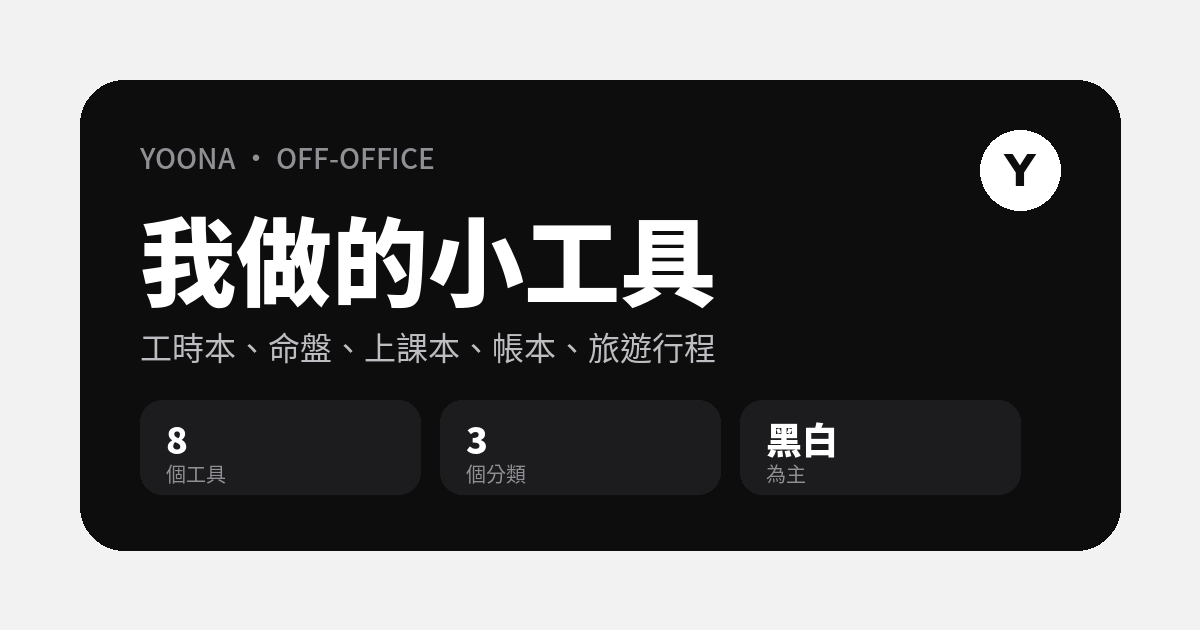
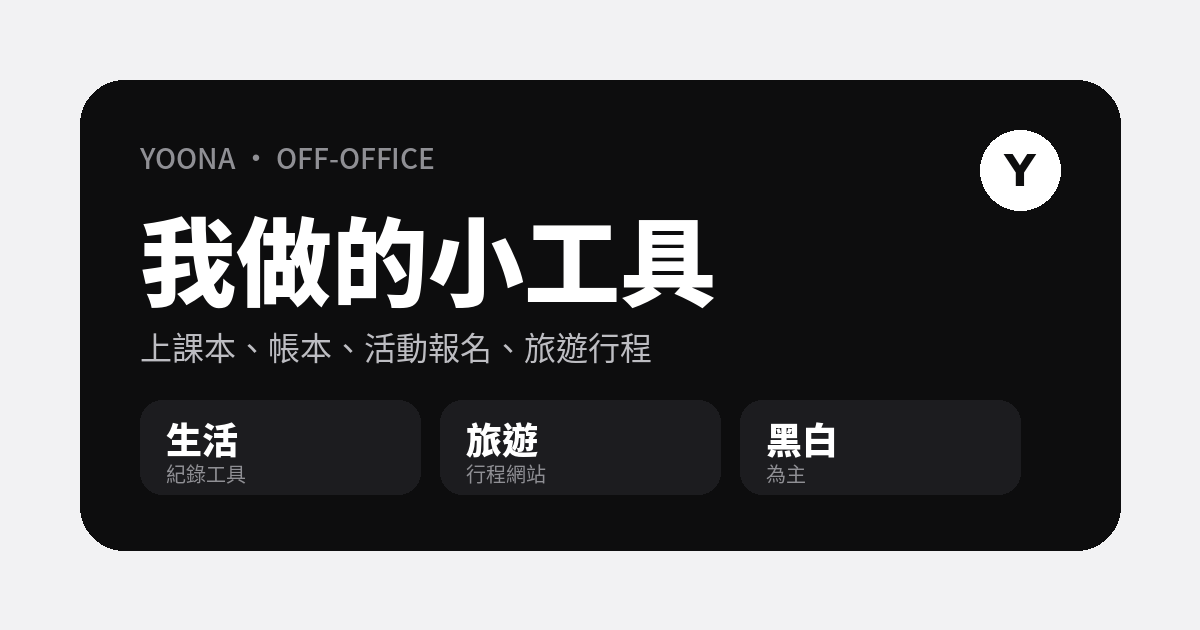
v3: travel + friend tab last + og image

diff --git a/index.html b/index.html
@@ -3,10 +3,10 @@
 <head>
 <meta charset="utf-8">
 <meta name="viewport" content="width=device-width, initial-scale=1, viewport-fit=cover">
-<meta name="description" content="Yoona 做過的所有小工具，按朋友、生活、旅遊分類，點了直接開啟。">
+<meta name="description" content="Yoona 做過的所有小工具，按生活、旅遊、朋友分類，點了直接開啟。">
 <meta property="og:type" content="website">
 <meta property="og:title" content="Yoona 的小工具">
-<meta property="og:description" content="工時本、命盤、上課本、帳本、旅遊行程，全部收在這裡。">
+<meta property="og:description" content="上課本、帳本、活動報名、旅遊行程，全部收在這裡。">
 <meta property="og:url" content="https://syuanc221.github.io/tools/">
 <meta property="og:image" content="https://syuanc221.github.io/tools/og.png">
 <meta property="og:image:width" content="1200">
@@ -112,27 +112,27 @@ h1{margin:2px 0 0;font-size:30px;font-weight:900;letter-spacing:-.01em;text-wrap
     <div class="hero-top">
       <div>
         <div class="label">目前收錄</div>
-        <div class="big" id="count">8<small>個</small></div>
+        <div class="big" id="count">6<small>個</small></div>
       </div>
-      <div class="last" id="latest">最近更新<b>ZL 工時本 v18</b>9/29</div>
+      <div class="last" id="latest">最近更新<b>加拿大・楓境遠征</b>9/30</div>
     </div>
     <div class="stats">
-      <div><b id="s-friend">2</b><span>幫朋友做的</span></div>
-      <div><b id="s-life">4</b><span>自己生活用</span></div>
+      <div><b id="s-life">4</b><span>生活紀錄</span></div>
       <div><b id="s-travel">2</b><span>旅遊網站</span></div>
+      <div><b id="s-friend">2</b><span>幫朋友做的</span></div>
           </div>
   </section>
 
   <div class="seg" role="group" aria-label="分類">
     <button type="button" id="f-all" data-f="all" aria-pressed="true">全部</button>
-    <button type="button" id="f-friend" data-f="friend" aria-pressed="false">朋友</button>
     <button type="button" id="f-life" data-f="life" aria-pressed="false">生活</button>
     <button type="button" id="f-travel" data-f="travel" aria-pressed="false">旅遊</button>
+    <button type="button" id="f-friend" data-f="friend" aria-pressed="false">朋友</button>
       </div>
 
   <div id="list"></div>
 
-  <p class="note">「公開」任何人都能開；「私人」只有登入你的 Claude 帳號才看得到。</p>
+  <p class="note">清單來自 Google Sheet，在表格加一列就會出現；「私人」是只有登入才開得了的頁面。</p>
 </div>
 
 <script>
@@ -152,11 +152,11 @@ const I = {
 const SHEET_ID = '10KImEBVuPuwQza8iDnUeb71jAURsnzzwSlowatCcM6Y';
 const SHEET_CSV = `https://docs.google.com/spreadsheets/d/${SHEET_ID}/gviz/tq?tqx=out:csv&headers=1`;
 let tools = [
-  {cat:'friend', icon:'clock', primary:true, name:'ZL 工時本', ver:'v18', desc:'地毯工時打卡、匯入備忘錄、月結表 PDF／Excel', pub:true, date:'9/29',
+  {cat:'friend', icon:'clock', name:'ZL 工時本', ver:'v18', desc:'地毯工時打卡、匯入備忘錄、月結表 PDF／Excel', pub:false, date:'9/29',
    url:'https://syuanc221.github.io/timesheet/', extra:[{t:'Demo 版', u:'https://syuanc221.github.io/timesheet/demo/'}]},
-  {cat:'friend', icon:'star', name:'子良命盤', desc:'本命盤、宮位相位、小限與法達自動更新', pub:true, date:'9/9',
+  {cat:'friend', icon:'star', name:'子良命盤', desc:'本命盤、宮位相位、小限與法達自動更新', pub:false, date:'9/9',
    url:'https://syuanc221.github.io/ziliang/'},
-  {cat:'life', icon:'ticket', name:'萬聖節變裝夜', desc:'10/31 ONCOR 信義 · 一鍵報名與即時人數', pub:true, date:'9/22',
+  {cat:'life', icon:'ticket', name:'萬聖節變裝夜', desc:'10/31 ONCOR 信義 · 一鍵報名與即時人數', pub:true, primary:true, date:'9/22',
    url:'https://syuanc221.github.io/halloween/'},
   {cat:'life', icon:'book', name:'英語家教上課本', desc:'每堂重點、複習、學費紀錄', pub:true, date:'9/29',
    url:'https://syuanc221.github.io/english-lessons/'},
@@ -169,12 +169,13 @@ let tools = [
   {cat:'travel', icon:'maple', name:'加拿大・楓境遠征', desc:'溫哥華、多倫多與尼加拉瀑布婚禮之旅', pub:true, date:'9/30',
    url:'https://canada-trip-site-latest-with-videos-zeta.vercel.app/'}
 ];
-const CAT = {friend:'朋友', life:'生活', travel:'旅遊'};
+const CAT = {life:'生活', travel:'旅遊', friend:'朋友'};
+const PUBLIC_CATS = ['life','travel'];   // 「全部」只列這些；朋友的東西只在自己的分頁
 const arrow = '<svg viewBox="0 0 24 24"><path d="M7 17 17 7M9 7h8v8"/></svg>';
 const esc = s => s.replace(/[&<>"]/g, c => ({'&':'&amp;','<':'&lt;','>':'&gt;','"':'&quot;'}[c]));
 
 function row(t){
-  const tags = `<span class="tag ${t.pub?'pub':''}">${t.pub?'公開':'私人'}</span>${t.ver?`<span class="tag">${t.ver}</span>`:''}<span class="tag">更新 ${t.date}</span>`;
+  const tags = `${t.pub?'':'<span class="tag pub">私人</span>'}${t.ver?`<span class="tag">${t.ver}</span>`:''}<span class="tag">更新 ${t.date}</span>`;
   let h = `<a class="row${t.primary?' primary':''}" href="${esc(t.url)}" target="_blank" rel="noopener">
     <div class="ic">${I[t.icon]}</div>
     <div class="body"><div class="name">${esc(t.name)}</div><div class="desc">${esc(t.desc)}</div><div class="meta">${tags}</div></div>
@@ -184,9 +185,10 @@ function row(t){
 }
 function render(f){
   const list = document.getElementById('list');
-  const cats = f==='all' ? ['friend','life','travel'] : [f];
+  const cats = f==='all' ? PUBLIC_CATS : [f];
   list.innerHTML = cats.map(c=>{
     const items = tools.filter(t=>t.cat===c);
+    if(!items.length) return '';
     return `<section class="group"><h2>${CAT[c]} · ${items.length}</h2>${items.map(row).join('')}</section>`;
   }).join('<div style="height:14px"></div>');
 }
@@ -221,15 +223,16 @@ function fromSheet(rows){
   return out;
 }
 function refreshStats(){
-  document.getElementById('count').firstChild.nodeValue = tools.length;
-  ['friend','life','travel'].forEach(c=>document.getElementById('s-'+c).textContent = tools.filter(t=>t.cat===c).length);
-  const latest=[...tools].sort((a,b)=>b.date.localeCompare(a.date,undefined,{numeric:true}))[0];
+  const shown=tools.filter(t=>PUBLIC_CATS.includes(t.cat));
+  document.getElementById('count').firstChild.nodeValue = shown.length;
+  ['life','travel','friend'].forEach(c=>document.getElementById('s-'+c).textContent = tools.filter(t=>t.cat===c).length);
+  const latest=[...shown].sort((a,b)=>b.date.localeCompare(a.date,undefined,{numeric:true}))[0];
   if(latest) document.getElementById('latest').innerHTML=`最近更新<b>${esc(latest.name)}${latest.ver?' '+esc(latest.ver):''}</b>${esc(latest.date)}`;
 }
 refreshStats();
 fetch(SHEET_CSV,{cache:'no-store'}).then(r=>r.ok?r.text():Promise.reject(r.status)).then(t=>{
   const list=fromSheet(parseCSV(t));
-  if(list.length){ tools.splice(0,tools.length,...list); tools[0].primary=true; refreshStats();
+  if(list.length){ tools.splice(0,tools.length,...list); const fv=tools.find(t=>PUBLIC_CATS.includes(t.cat)); if(fv) fv.primary=true; refreshStats();
     render(document.querySelector('.seg button[aria-pressed="true"]').dataset.f); }
 }).catch(()=>{});
 document.querySelectorAll('.seg button').forEach(b=>b.addEventListener('click',()=>{
